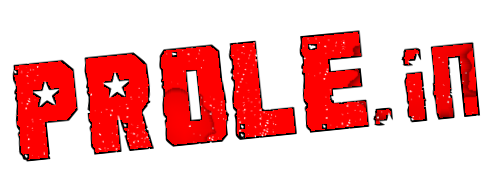
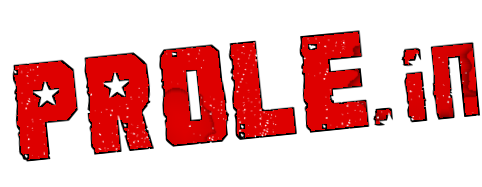
css

Changed region(s): [[0.0311, 0.1604, 0.8091, 0.8556], [0.8402, 0.2406, 0.9959, 0.6417]]

diff --git a/public/prole.css b/public/prole.css
@@ -40,7 +40,7 @@ a {
 h1 {
   font-family: Helvetica;
   font-size: 3em;
-  color: red;
+  color: #de0000;
   letter-spacing: -0.06em;
   font-weight: bold;
 }
